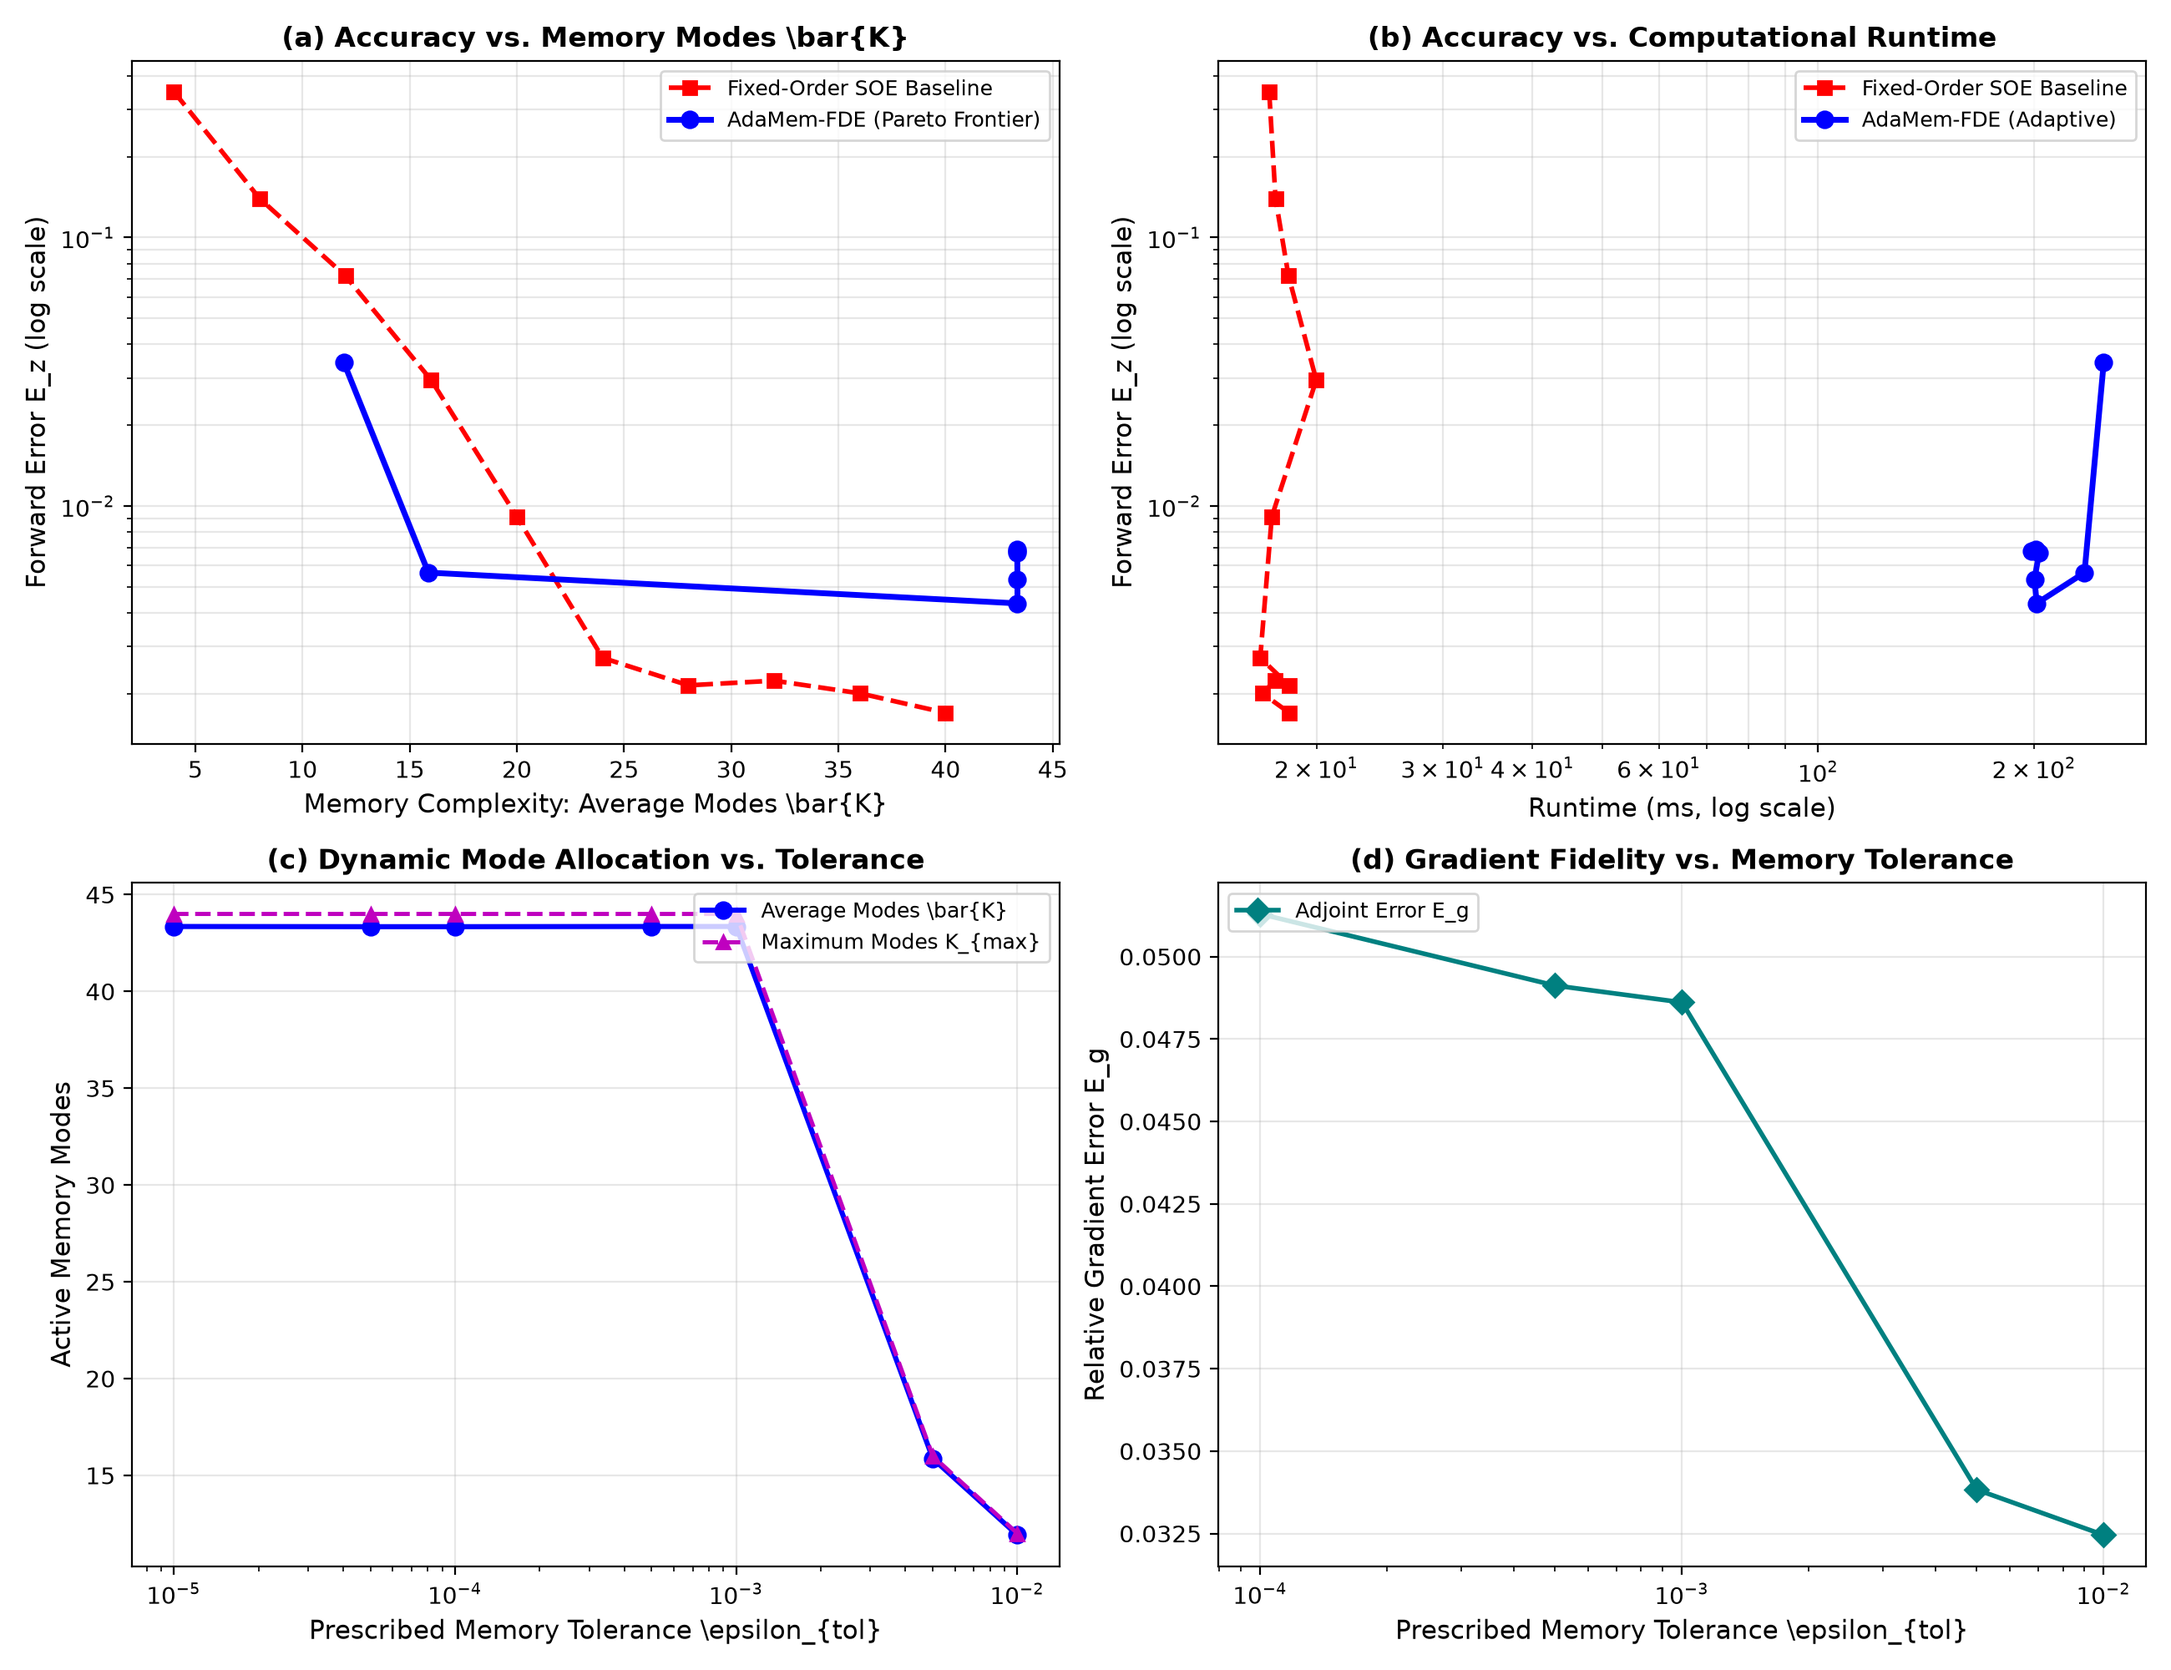
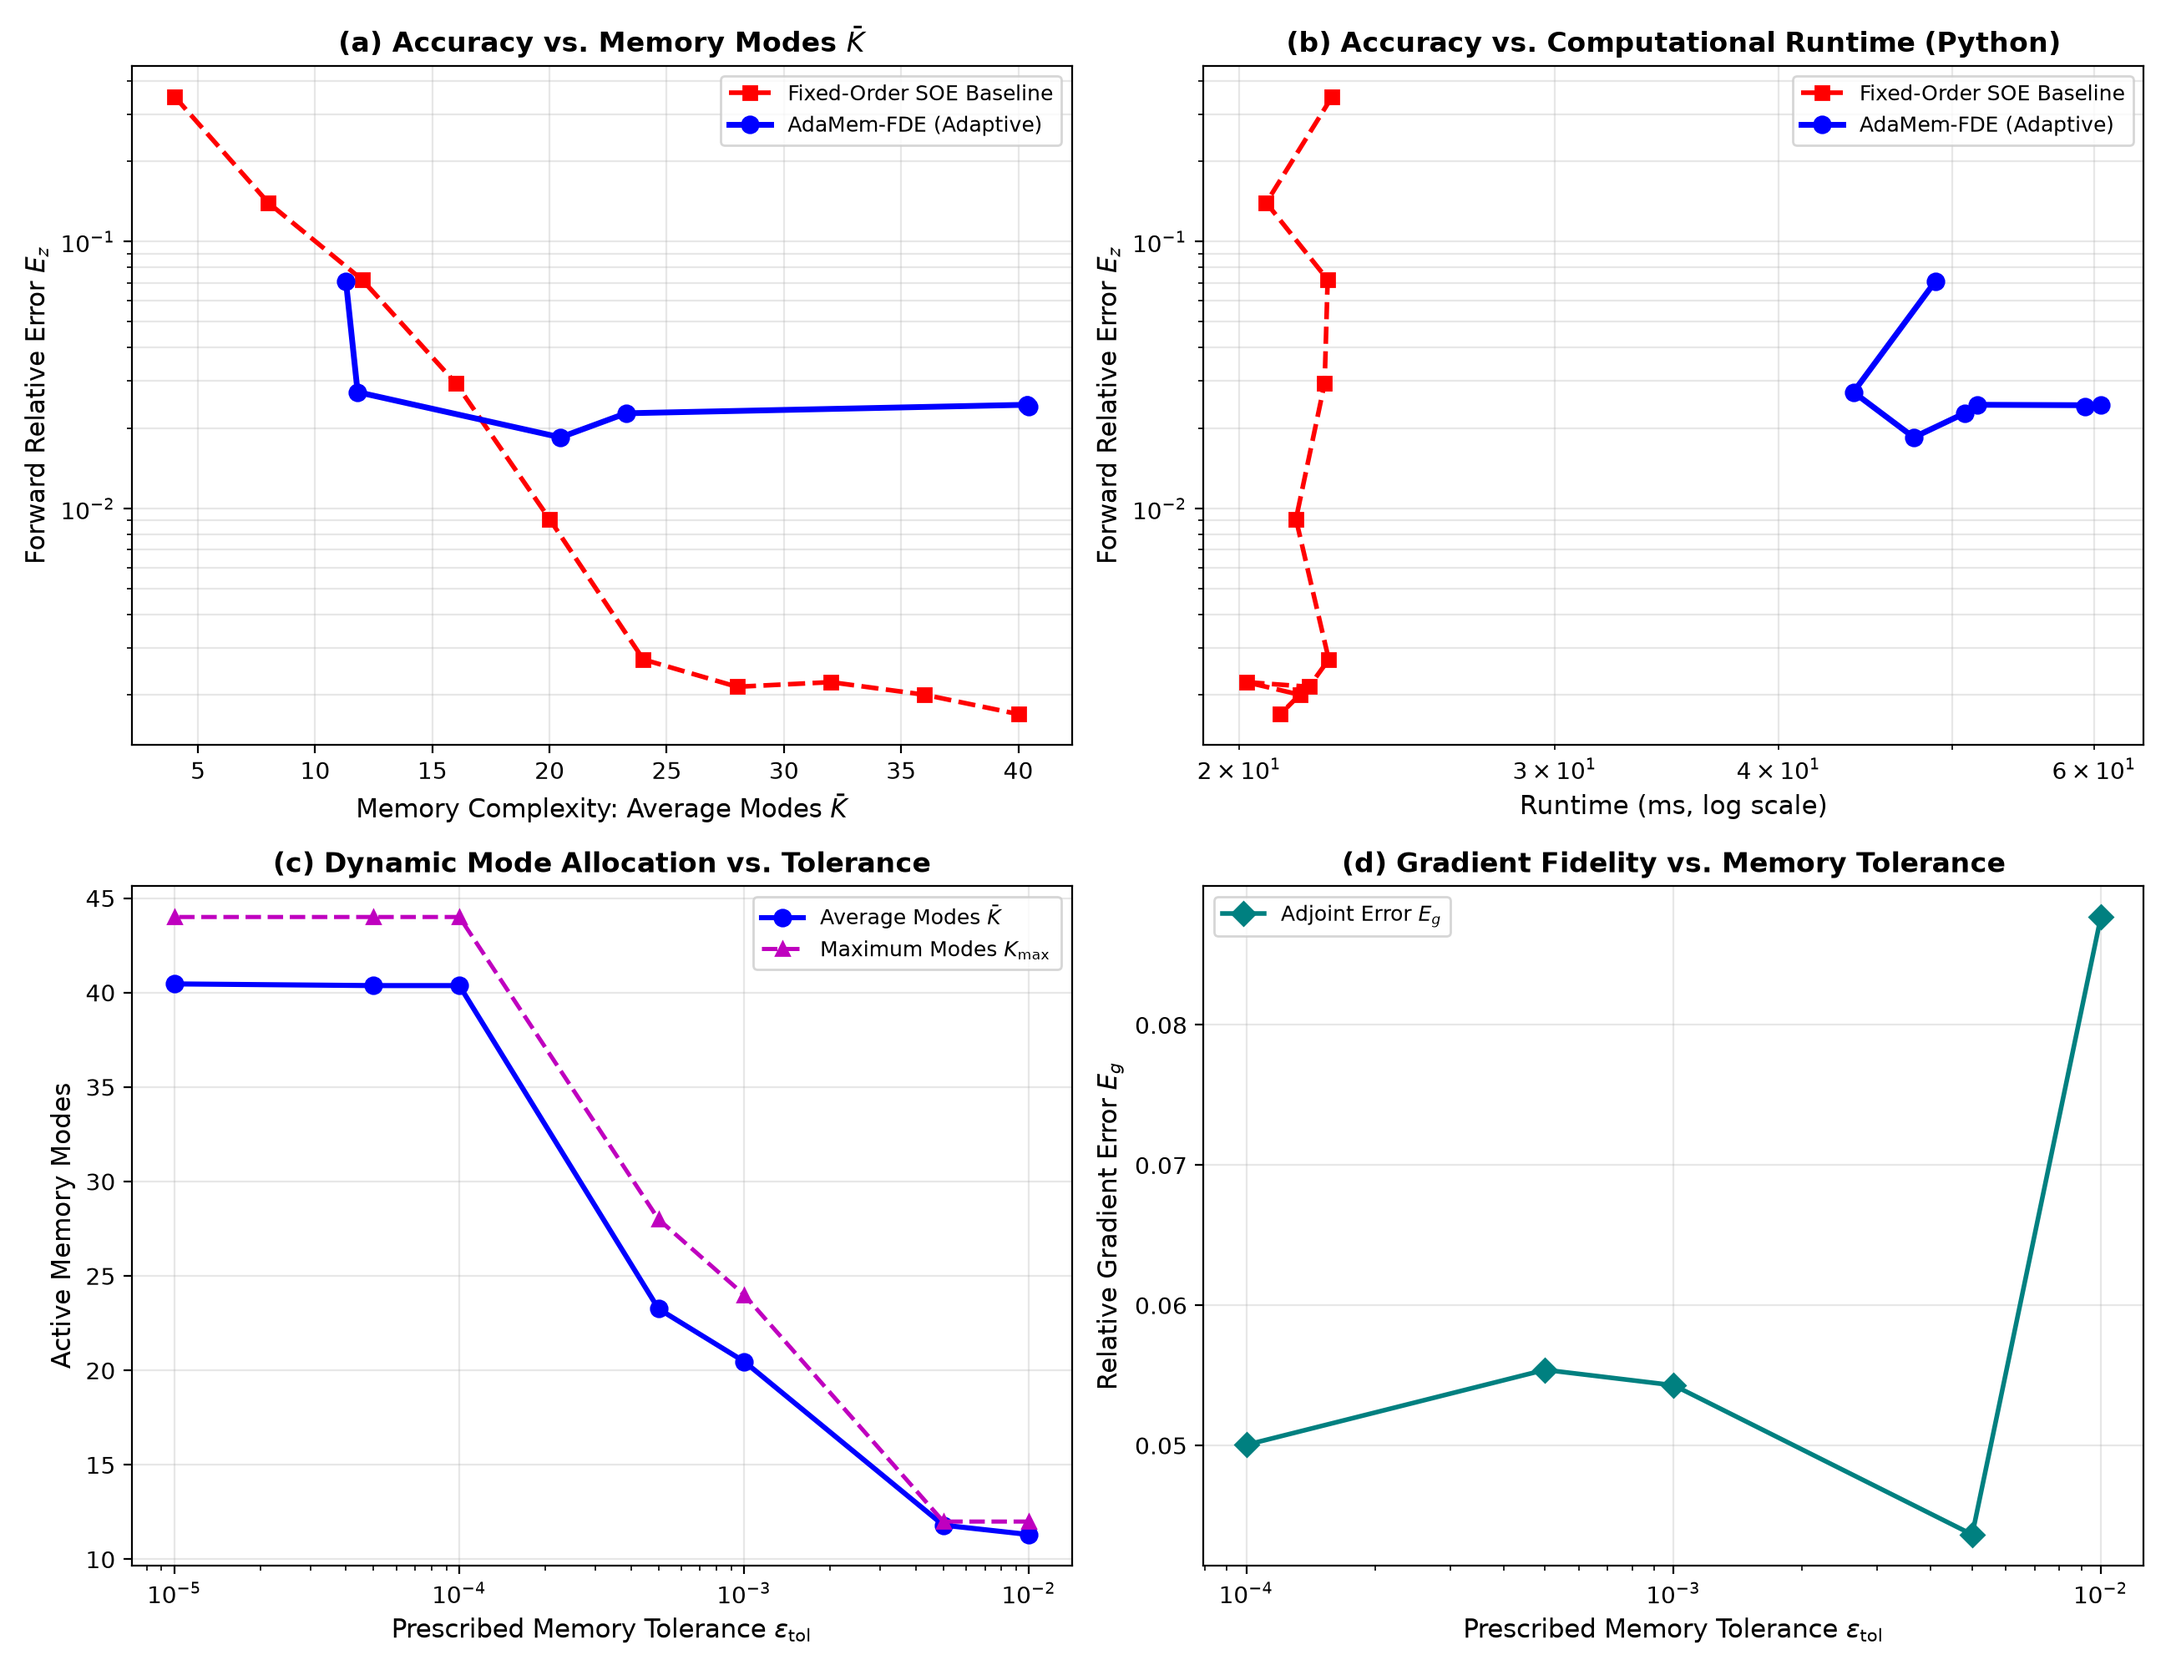
fix(pareto): correct LaTeX mathtext rendering and axis labels in Pareto analysis

diff --git a/experiments/run_tolerance_pareto.py b/experiments/run_tolerance_pareto.py
@@ -186,10 +186,10 @@ def run_tolerance_pareto_experiment(save_dir: str = "results"):
     ada_err = [r["error"] for r in adapt_res]
 
     ax1.semilogy(fix_k, fix_err, "r--s", lw=2, ms=6, label="Fixed-Order SOE Baseline")
-    ax1.semilogy(ada_k, ada_err, "b-o", lw=2.5, ms=7, label="AdaMem-FDE (Pareto Frontier)")
-    ax1.set_xlabel("Memory Complexity: Average Modes \\bar{K}", fontsize=11)
-    ax1.set_ylabel("Forward Error E_z (log scale)", fontsize=11)
-    ax1.set_title("(a) Accuracy vs. Memory Modes \\bar{K}", fontsize=12, fontweight="bold")
+    ax1.semilogy(ada_k, ada_err, "b-o", lw=2.5, ms=7, label="AdaMem-FDE (Adaptive)")
+    ax1.set_xlabel(r"Memory Complexity: Average Modes $\bar{K}$", fontsize=11)
+    ax1.set_ylabel(r"Forward Relative Error $E_z$", fontsize=11)
+    ax1.set_title(r"(a) Accuracy vs. Memory Modes $\bar{K}$", fontsize=12, fontweight="bold")
     ax1.grid(True, alpha=0.3, which="both")
     ax1.legend(fontsize=9, loc="upper right")
 
@@ -200,8 +200,8 @@ def run_tolerance_pareto_experiment(save_dir: str = "results"):
     ax2.loglog(fix_t, fix_err, "r--s", lw=2, ms=6, label="Fixed-Order SOE Baseline")
     ax2.loglog(ada_t, ada_err, "b-o", lw=2.5, ms=7, label="AdaMem-FDE (Adaptive)")
     ax2.set_xlabel("Runtime (ms, log scale)", fontsize=11)
-    ax2.set_ylabel("Forward Error E_z (log scale)", fontsize=11)
-    ax2.set_title("(b) Accuracy vs. Computational Runtime", fontsize=12, fontweight="bold")
+    ax2.set_ylabel(r"Forward Relative Error $E_z$", fontsize=11)
+    ax2.set_title(r"(b) Accuracy vs. Computational Runtime (Python)", fontsize=12, fontweight="bold")
     ax2.grid(True, alpha=0.3, which="both")
     ax2.legend(fontsize=9, loc="upper right")
 
@@ -209,11 +209,11 @@ def run_tolerance_pareto_experiment(save_dir: str = "results"):
     ada_tol = [r["tol"] for r in adapt_res]
     ada_max = [r["max_modes"] for r in adapt_res]
 
-    ax3.semilogx(ada_tol, ada_k, "b-o", lw=2.2, ms=7, label="Average Modes \\bar{K}")
-    ax3.semilogx(ada_tol, ada_max, "m--^", lw=1.8, ms=6, label="Maximum Modes K_{max}")
-    ax3.set_xlabel("Prescribed Memory Tolerance \\epsilon_{tol}", fontsize=11)
+    ax3.semilogx(ada_tol, ada_k, "b-o", lw=2.2, ms=7, label=r"Average Modes $\bar{K}$")
+    ax3.semilogx(ada_tol, ada_max, "m--^", lw=1.8, ms=6, label=r"Maximum Modes $K_{\max}$")
+    ax3.set_xlabel(r"Prescribed Memory Tolerance $\epsilon_{\mathrm{tol}}$", fontsize=11)
     ax3.set_ylabel("Active Memory Modes", fontsize=11)
-    ax3.set_title("(c) Dynamic Mode Allocation vs. Tolerance", fontsize=12, fontweight="bold")
+    ax3.set_title(r"(c) Dynamic Mode Allocation vs. Tolerance", fontsize=12, fontweight="bold")
     ax3.grid(True, alpha=0.3)
     ax3.legend(fontsize=9, loc="upper right")
 
@@ -221,10 +221,10 @@ def run_tolerance_pareto_experiment(save_dir: str = "results"):
     g_tol = [r["tol"] for r in grad_res]
     g_err = [r["grad_err"] for r in grad_res]
 
-    ax4.semilogx(g_tol, g_err, "teal", marker="D", lw=2.0, ms=7, label="Adjoint Error E_g")
-    ax4.set_xlabel("Prescribed Memory Tolerance \\epsilon_{tol}", fontsize=11)
-    ax4.set_ylabel("Relative Gradient Error E_g", fontsize=11)
-    ax4.set_title("(d) Gradient Fidelity vs. Memory Tolerance", fontsize=12, fontweight="bold")
+    ax4.semilogx(g_tol, g_err, "teal", marker="D", lw=2.0, ms=7, label=r"Adjoint Error $E_g$")
+    ax4.set_xlabel(r"Prescribed Memory Tolerance $\epsilon_{\mathrm{tol}}$", fontsize=11)
+    ax4.set_ylabel(r"Relative Gradient Error $E_g$", fontsize=11)
+    ax4.set_title(r"(d) Gradient Fidelity vs. Memory Tolerance", fontsize=12, fontweight="bold")
     ax4.grid(True, alpha=0.3)
     ax4.legend(fontsize=9, loc="upper left")
 
